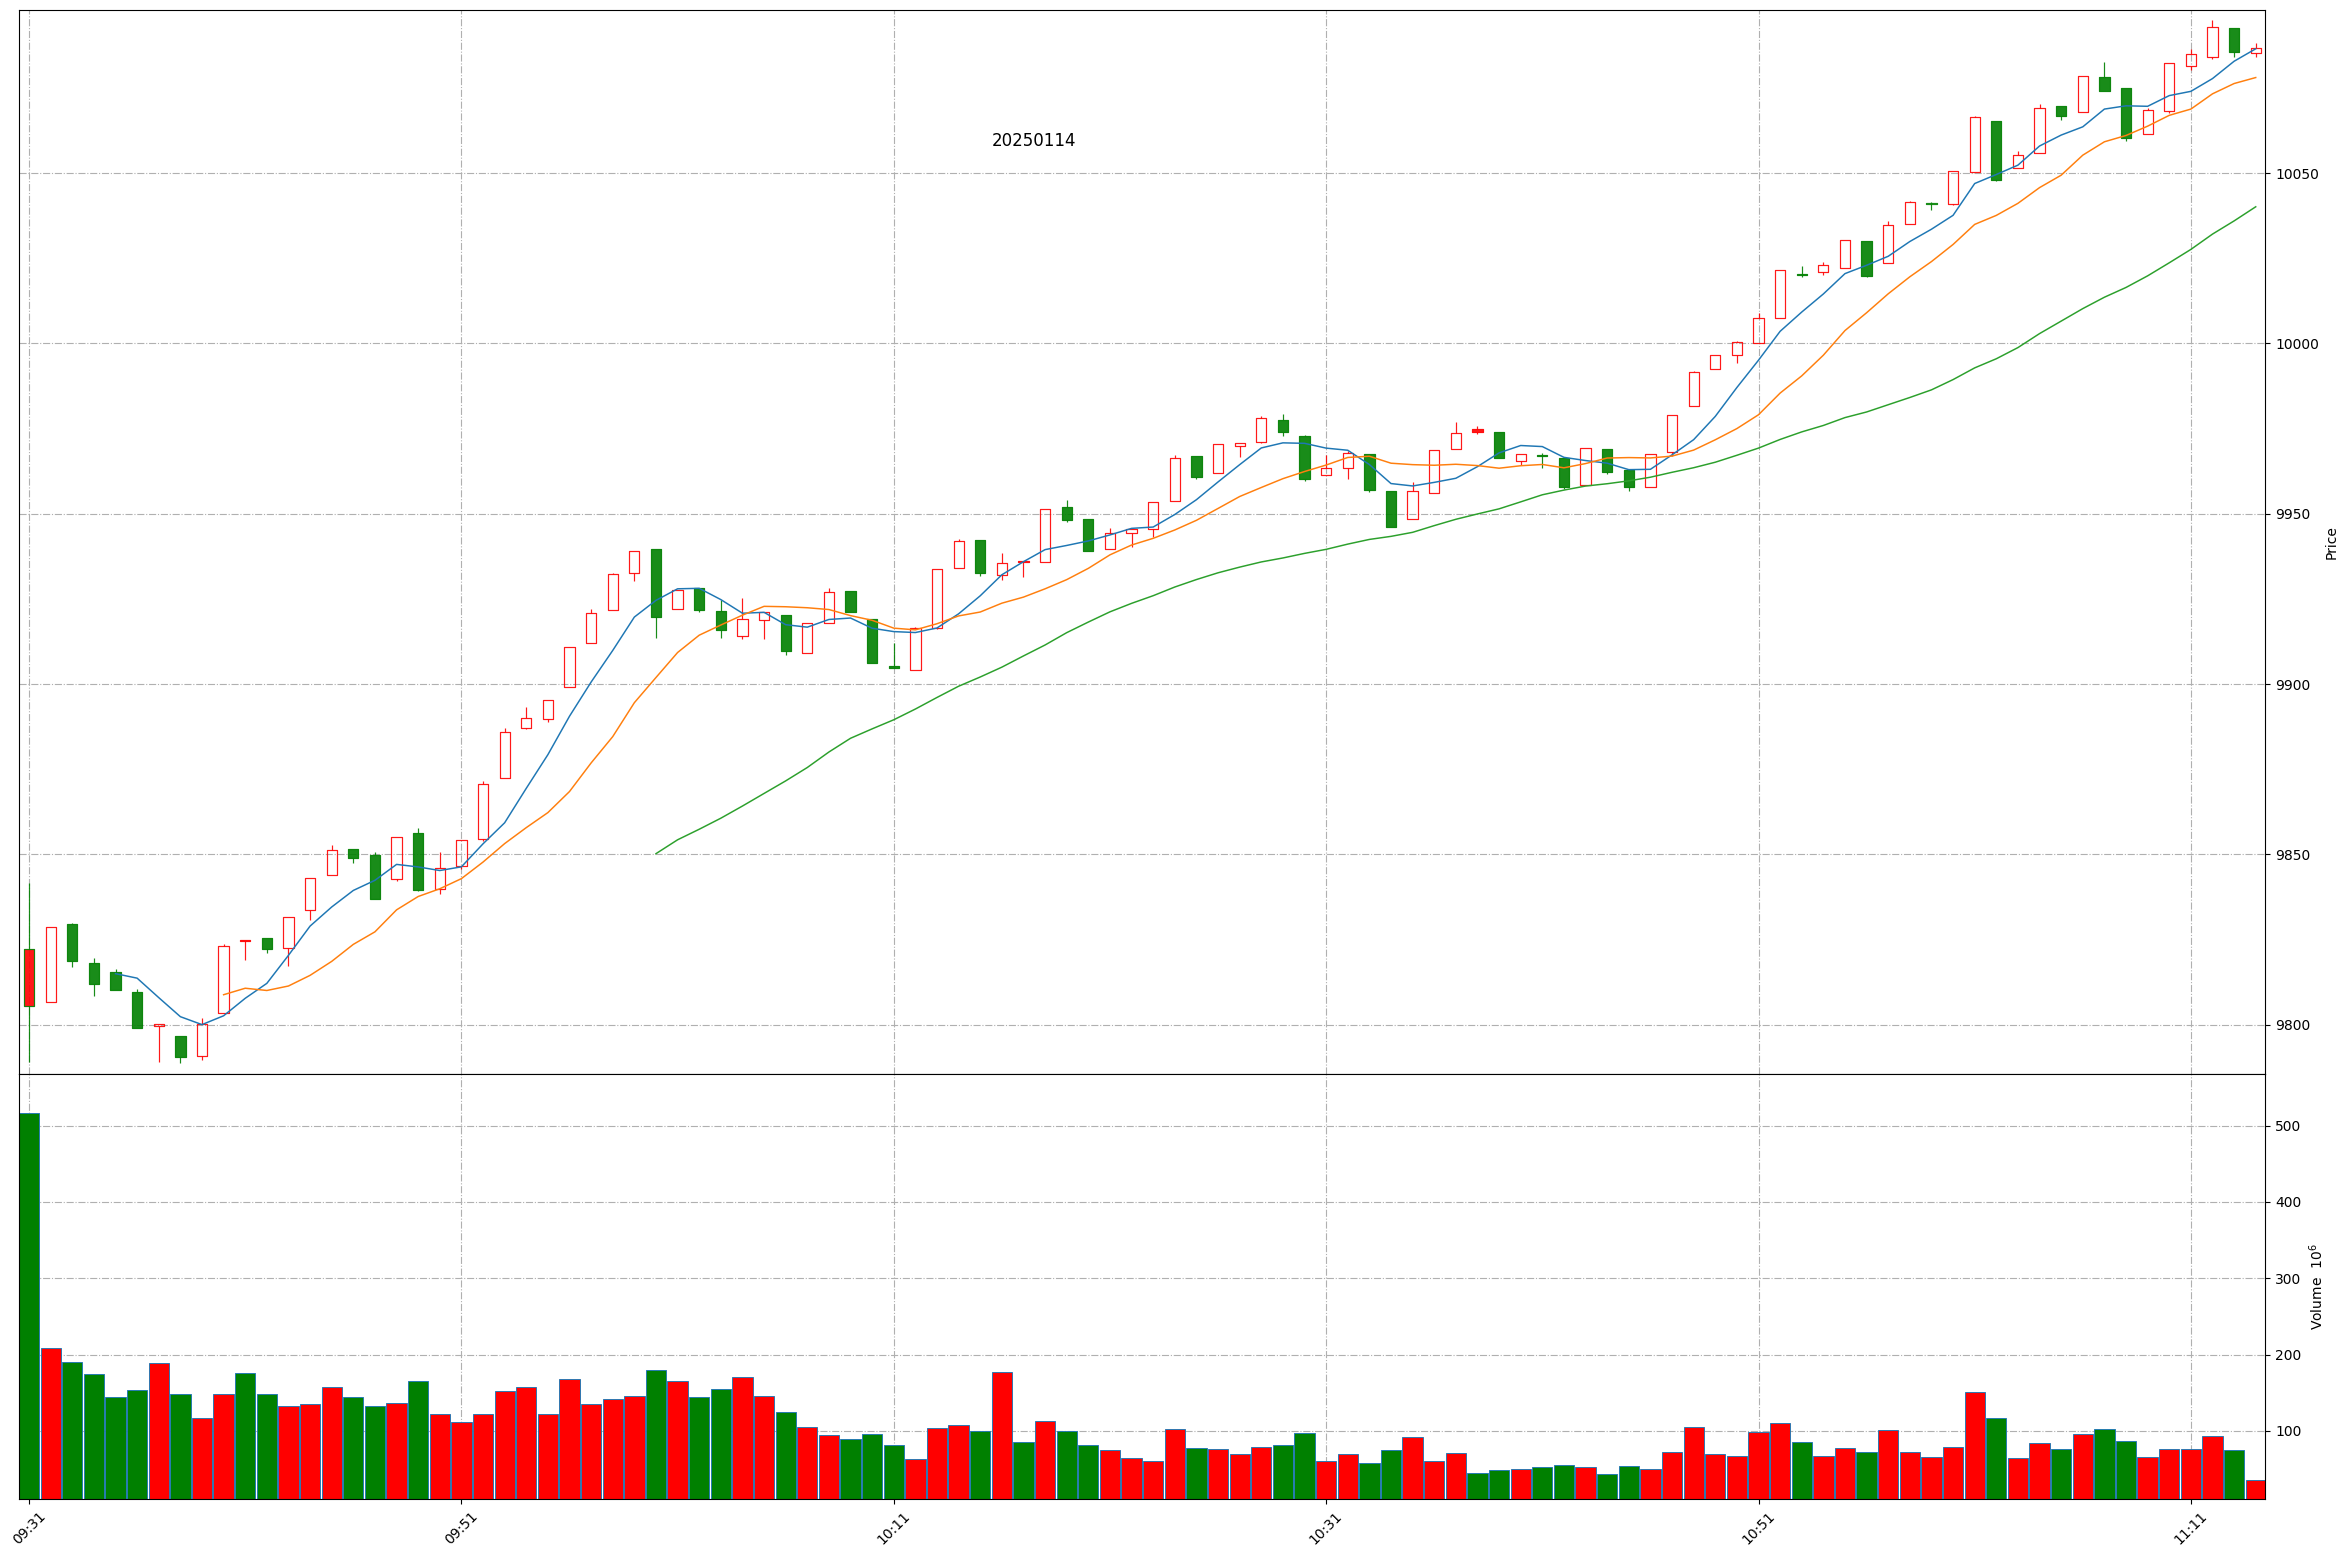
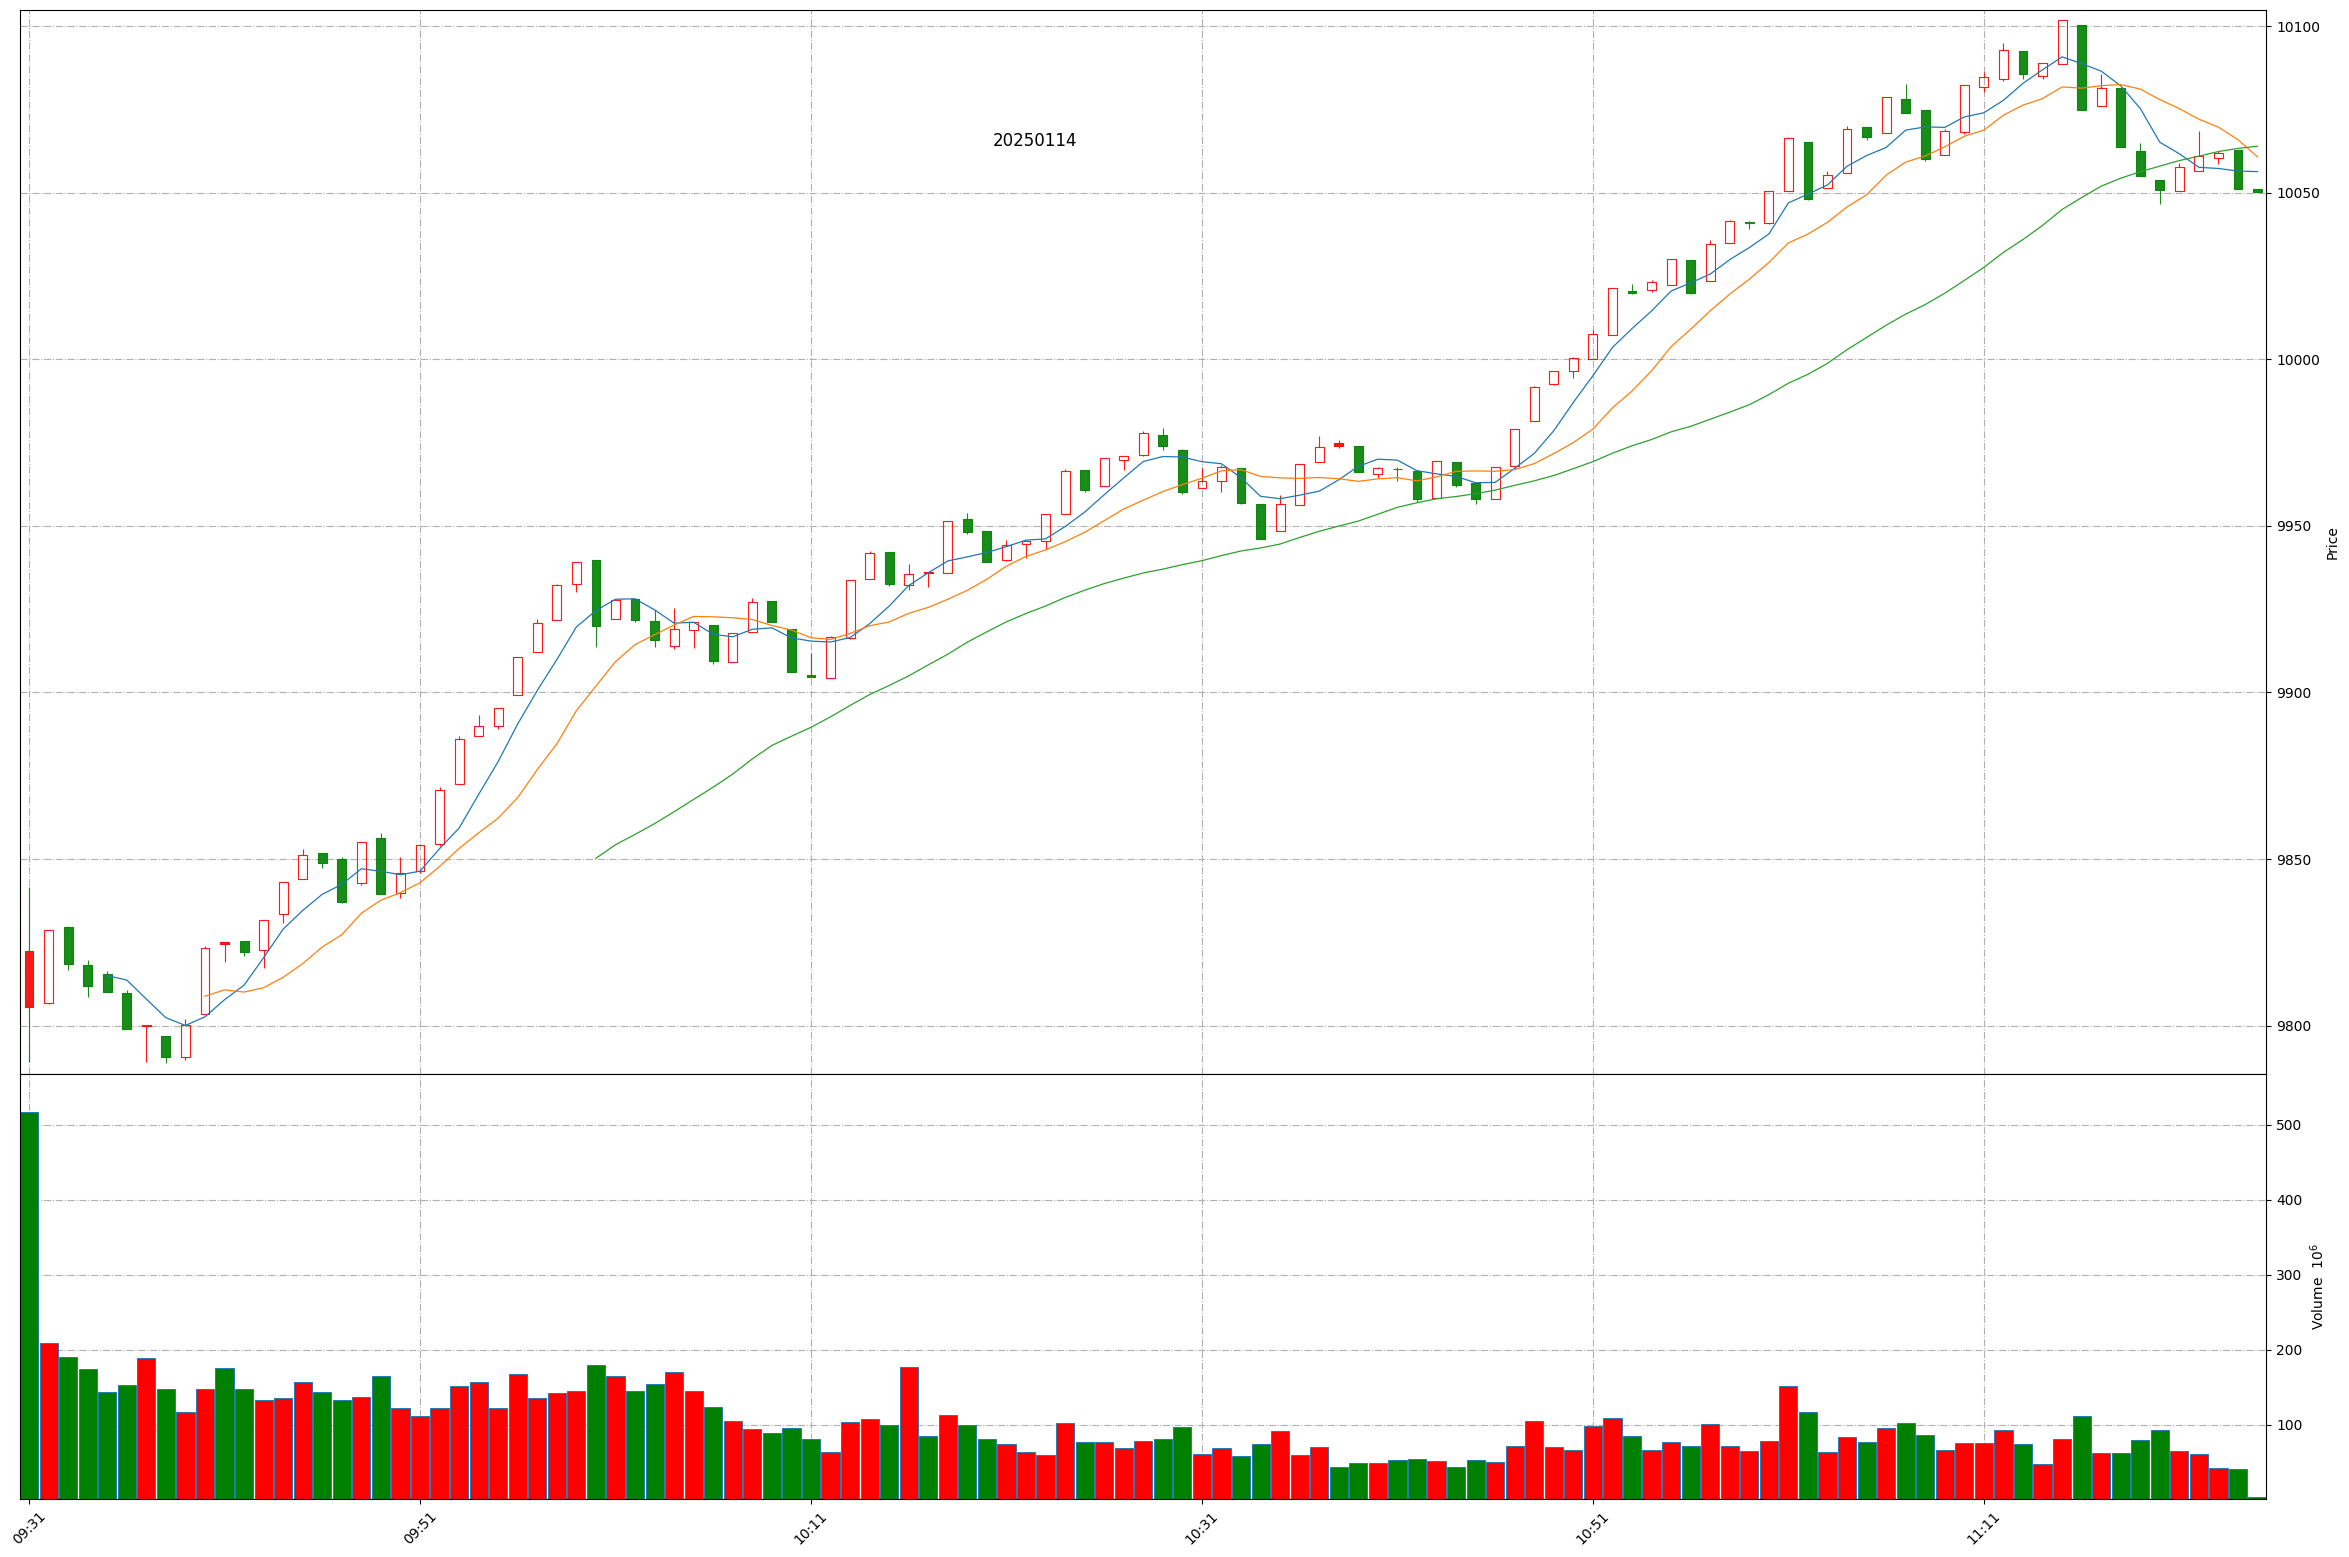
Github action update at 2025-01-14 11:24:25.

diff --git a/README.md b/README.md
@@ -1,11 +1,11 @@
 
 # Daily-A-share-market-quotes 每日 A 股指数（5min 更新）- 20250114
 
-### 上证指数 20250114 11:13
+### 上证指数 20250114 11:24
 ![](./fig/2025/1/20250114-sh000001.png)
 
-### 深证成指 20250114 11:13
+### 深证成指 20250114 11:24
 ![](./fig/2025/1/20250114-sz399001.png)
 
-### 北证50 20250114 11:13
+### 北证50 20250114 11:24
 ![](./fig/2025/1/20250114-bj899050.png)
